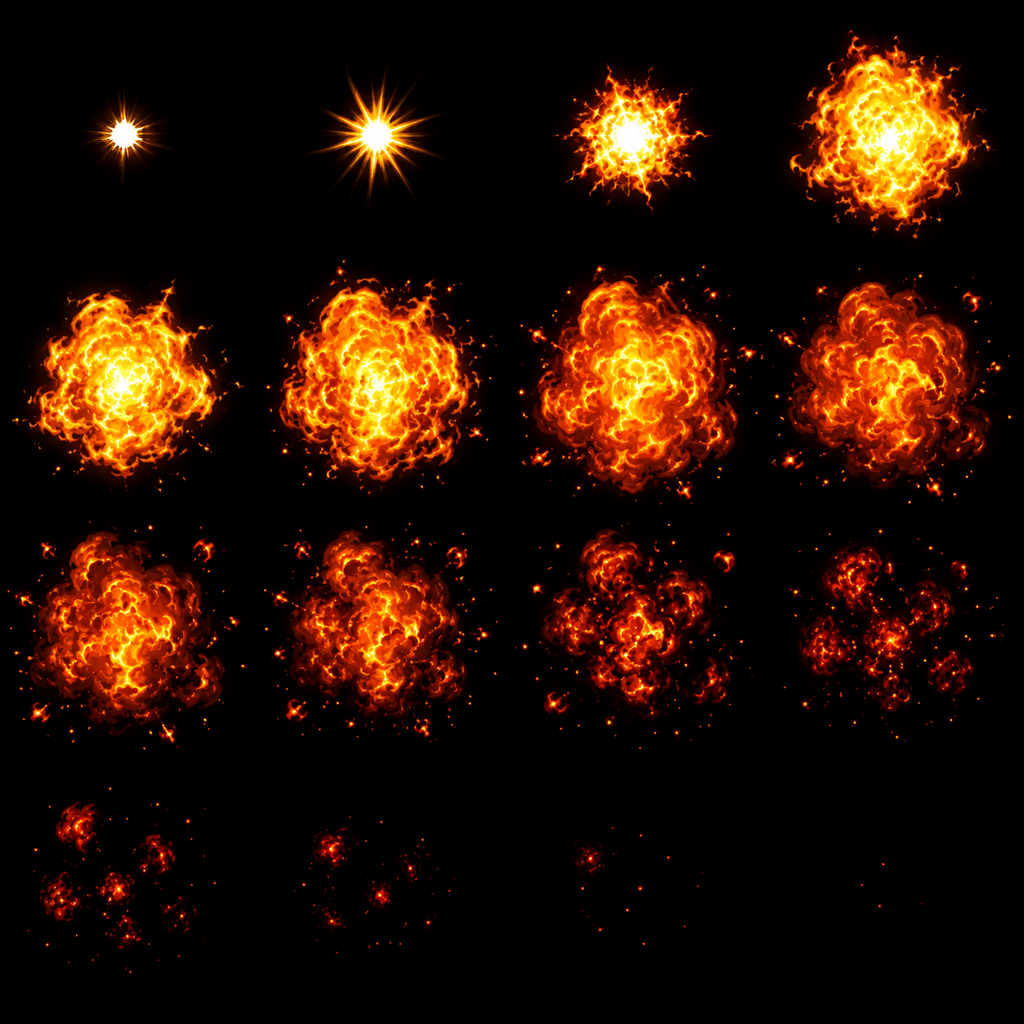
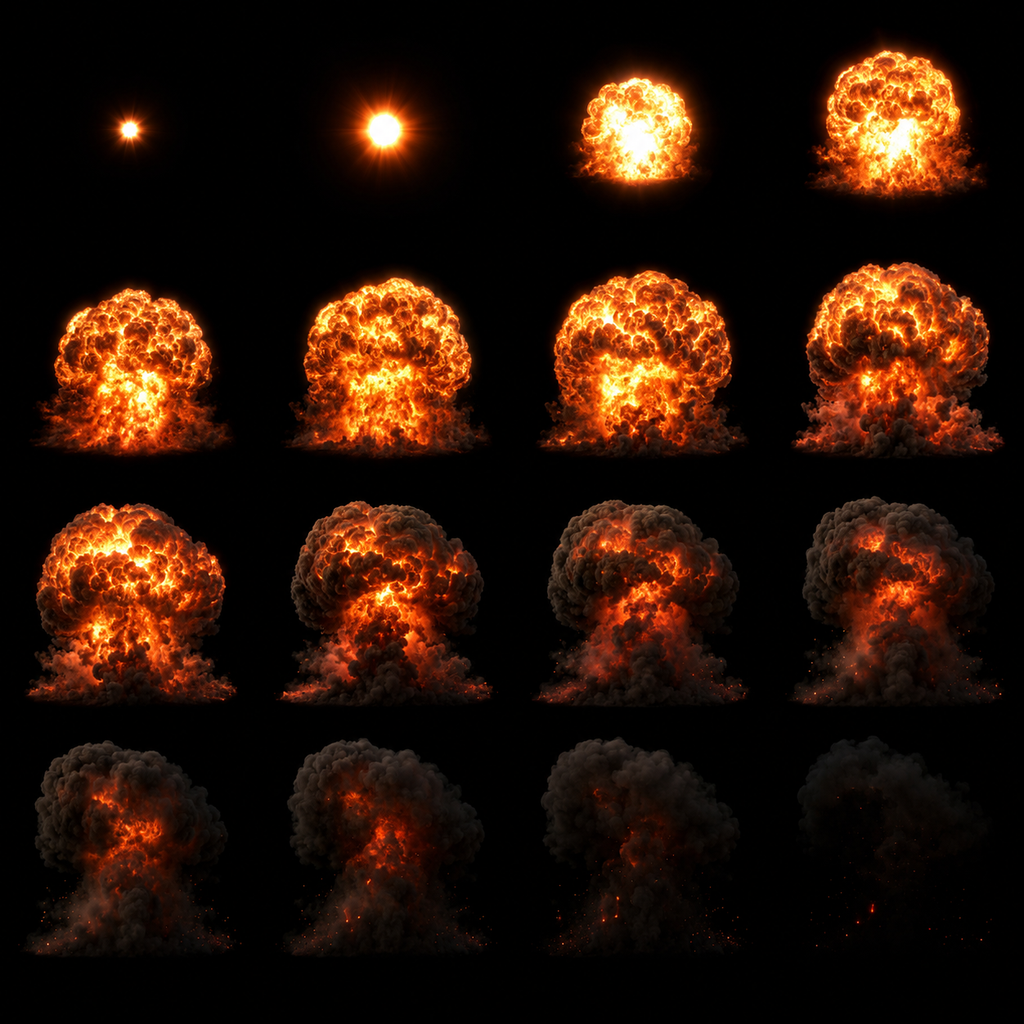
爆炸第四版=写实模拟序列帧+地面锚定;电梯载箱与压毁
- 参考31写实流体模拟质感序列帧(体积火云/蘑菇升腾/透光烟,帧内自带贴地基线);切帧改网格原样切(重定心会抹掉升腾运动);参考30手绘版转存档
- 火焰穿地根治:贴地爆=帧底边锚定地面线+冲击波环压扁成地表尘环+熏黑贴地;半空爆居中正圆
- 电梯载箱:厢底/厢顶可推物绝对落座随厢(增量平移累5-7px嵌顶,实测);载运顶进实体=压毁(气瓶=引爆);B4→B1全程零穿模
- 物理模拟技术答案入册:实时体积流体不可行于H5,行业解=离线模拟烘焙flipbook+运行时粒子

diff --git a/src/scenes/ArenaScene.js b/src/scenes/ArenaScene.js
@@ -168,23 +168,29 @@ export class ArenaScene extends Phaser.Scene {
       flash: (x, y) => this.flashEmitter.explode(1, x, y),
       // 爆炸复合体(对标入侵者2,反馈批定版):暖白核闪+环形火球羽流(3变体×双层)+撕裂冲击波
       // 双环+错峰烟团(NORMAL,火灭烟还在)+暖色火星雨+地面熏黑贴花——每发混沌不同
-      explosion: (x, y, power = 1) => {
+      explosion: (x, y, power = 1, groundY = null) => {
         const core = this.add.image(x, y, 'px_glow').setTint(0xfff6e0).setScale(0.3 * power)
           .setBlendMode(Phaser.BlendModes.ADD).setDepth(42)
         this.tweens.add({ targets: core, scale: 1.5 * power, alpha: 0, duration: 90, ease: 'Expo.Out', onComplete: () => core.destroy() })
-        // 火球=AI 手绘序列帧(参考30,16帧@30fps;程序化火球两版被点名"差劲"后定版走美术帧——
-        // 与全作 AI 切件同一质量线;黑底 ADD 混合,黑=透明免抠)。翻转/微转/缩放抖动=每发不同
-        const boom = this.add.sprite(x, y, 'fx_boom', 0)
+        // 火球=AI 写实模拟序列帧(参考31,16帧@30fps,黑底 ADD 黑即透明;帧内自带贴地升腾基线)。
+        // 贴地爆=底边锚定在地面线(蘑菇向上升,火不入地——用户点名"穿地"的根治);半空爆=居中
+        const bScale = (0.85 + Math.random() * 0.3) * power
+        const grounded = groundY != null && groundY - y < 256 * bScale * 0.5
+        const boom = this.add.sprite(x, grounded ? groundY + 6 : y, 'fx_boom', 0)
+          .setOrigin(0.5, grounded ? 0.92 : 0.6)
           .setBlendMode(Phaser.BlendModes.ADD).setDepth(41)
-          .setScale((0.85 + Math.random() * 0.3) * power)
+          .setScale(bScale)
           .setFlipX(Math.random() < 0.5)
-          .setRotation((Math.random() - 0.5) * 0.3)
         boom.play('boom')
         boom.once('animationcomplete', () => boom.destroy())
+        // 冲击波环:贴地爆=压扁成地表尘环(真实地面爆炸的水平冲击环);空中爆=正圆
         for (const R of [{ tint: 0xffffff, s1: 2.6, a: 0.85, dur: 180 }, { tint: 0xff8a3d, s1: 3.3, a: 0.6, dur: 380 }]) {
-          const rg = this.add.image(x, y, 'px_shockring').setRotation(Math.random() * Math.PI * 2)
-            .setTint(R.tint).setScale(0.15 * power).setBlendMode(Phaser.BlendModes.ADD).setDepth(40).setAlpha(R.a)
-          this.tweens.add({ targets: rg, scale: R.s1 * power, alpha: 0, duration: R.dur, ease: 'Quad.Out', onComplete: () => rg.destroy() })
+          const ry = grounded ? groundY - 6 : y
+          const rg = this.add.image(x, ry, 'px_shockring').setRotation(grounded ? 0 : Math.random() * Math.PI * 2)
+            .setTint(R.tint).setScale(0.15 * power, 0.15 * power * (grounded ? 0.3 : 1))
+            .setBlendMode(Phaser.BlendModes.ADD).setDepth(40).setAlpha(R.a)
+          this.tweens.add({ targets: rg, scaleX: R.s1 * power, scaleY: R.s1 * power * (grounded ? 0.3 : 1),
+            alpha: 0, duration: R.dur, ease: 'Quad.Out', onComplete: () => rg.destroy() })
         }
         const n = Phaser.Math.Between(3, 5)
         for (let i = 0; i < n; i++) {
@@ -201,7 +207,8 @@ export class ArenaScene extends Phaser.Scene {
         }
         this.emberEmitter.explode(Phaser.Math.Between(30, 40), x, y)
         // 地面熏黑:三张打散的深色软斑=不规则烟灰渍,FIFO 上限防贴花堆积
-        const scorch = this.add.container(x, y).setDepth(2).setScale(0.3)
+        // 熏黑贴在地面线(有地面时),半空爆不留悬空黑渍
+        const scorch = this.add.container(x, groundY != null ? groundY - 2 : y).setDepth(2).setScale(0.3)
         for (let i = 0; i < 3; i++) {
           scorch.add(this.add.image(Phaser.Math.Between(-10, 10), Phaser.Math.Between(-6, 6), 'px_glow')
             .setTint(0x0d0b09).setAlpha([0.55, 0.4, 0.3][i])

diff --git a/src/systems/Elevator.js b/src/systems/Elevator.js
@@ -221,6 +221,40 @@ export class Elevator {
           if (!pb.isStatic) M.Body.setVelocity(pb, { x: pb.velocity.x, y: ndy })
         }
       }
+      // —— 可推物随厢载运(用户实见"厢顶箱子上行时穿模"):厢底面/厢顶面上的可推刚体随厢
+      // 平移,与载尸同法——厢体是 setPosition 驱动的静态体,无碰撞响应,不带=顶穿/掉埋。
+      // 载运中将顶进非电梯实体=压毁(箱→碎屑消亡;完好气瓶→当场引爆,现实电梯的下场) ——
+      for (const pp of s._pushables) {
+        const pb2 = pp._body
+        if (!pb2 || pp === p || (pp.tank && pp._state && pp._state !== 'idle')) continue
+        if (Math.abs(pb2.position.x - cx) >= p.w / 2 + 6) continue
+        const bot = pp.y + pp.h
+        const onCabFloor = bot > p.y - 8 && bot < p.y + 10
+        const onCabRoof = bot > this.roofSolid.y - 8 && bot < this.roofSolid.y + 10
+        if (!onCabFloor && !onCabRoof) continue
+        let crushed = false
+        if (ndy < 0) {
+          const nx = pb2.position.x, ny2 = pb2.position.y + ndy
+          for (const o of s.solids) {
+            if (o.oneWay || o.elevator || o.minor || o === pp) continue
+            if (nx > o.x && nx < o.x + o.w && ny2 - pp.h / 2 < o.y + o.h && ny2 + pp.h / 2 > o.y) { crushed = true; break }
+          }
+        }
+        if (crushed) {
+          this._crushFx(pb2.position.x, pb2.position.y)
+          if (pp.tank && s.explosives) { s.explosives._explode(pp); continue }
+          if (pp._spr) pp._spr.destroy()
+          s.matter.world.remove(pb2)
+          const si = s.solids.indexOf(pp); if (si >= 0) s.solids.splice(si, 1)
+          const pi = s._pushables.indexOf(pp); if (pi >= 0) s._pushables.splice(pi, 1)
+          continue
+        }
+        M.Sleeping.set(pb2, false)
+        // 绝对落座(底边贴面)而非增量平移——增量会累出 5-7px 嵌顶漂移(实测)
+        const seatTop = (onCabFloor ? p.y : this.roofSolid.y) + ndy
+        M.Body.setPosition(pb2, { x: pb2.position.x, y: seatTop - pp.h / 2 })
+        if (!pb2.isStatic) M.Body.setVelocity(pb2, { x: pb2.velocity.x, y: ndy })
+      }
       // 下行厢底"贴到"正下方的尸块时把它挤出去(窗口只有一个厢底厚度——
       // 开大到 70 会在整个下行途中把足印下方全部尸块提前扫飞,载运就没得载了,实测踩过)
       if (ndy > 0) {

diff --git a/src/systems/Explosives.js b/src/systems/Explosives.js
@@ -52,7 +52,13 @@ export class Explosives {
     const x = t._body.position.x, y = t._body.position.y
     // 视觉:爆炸复合体(核闪/火球羽流/冲击波环/烟团/暖火星/熏黑,见 fx.explosion——
     // 旧版借用枪械冷色资源+圆片充数,用户点名"不真实,参考入侵者2"后重做)
-    s.fx.explosion(x, y, 1)
+    // 找爆点正下方最近的地面线(火球锚地/熏黑贴地/冲击波变地表尘环用;200px 内无地=半空爆)
+    let groundY = null
+    for (const o of s.solids) {
+      if (o.minor || x < o.x || x > o.x + o.w) continue
+      if (o.y >= y - 6 && o.y < y + 200 && (groundY == null || o.y < groundY)) groundY = o.y
+    }
+    s.fx.explosion(x, y, 1, groundY)
     s.fx.debris(x, y, 16)
     // 震屏随玩家距离衰减(900px 外不震——隔半张图的爆炸不该同级摇镜头)
     const fall = Math.max(0, 1 - Math.hypot(s.player.x - x, s.player.y - y) / 900)

diff --git a/docs/素材许可.md b/docs/素材许可.md
@@ -30,7 +30,8 @@
 | **可爆气瓶套图 v1(现役)** | docs/风格参考/参考27-可爆气瓶v1.png(1122×1402,浅灰底) | 用户本人 ChatGPT 账号,由 Claude 代为输入 prompt 生成(高压气瓶A锈红/B灰绿/小丙烷罐) | 用户账号生成的 AI 内容;切件坐标留档 tools/cut-devices.mjs | 无 | 切件 prop_tank_a/b/s(R2 可爆物:打漏喷焰乱窜→爆炸→连锁殉爆) | 2026-07-17 |
 | **B2实验层家具套图 v1(现役)** | docs/风格参考/参考28-B2实验层家具v1.png(1024×1536,浅灰底) | 用户本人 ChatGPT 账号,由 Claude 代为输入 prompt 生成(玻璃观察窗墙/低温冷柜墙带空格叙事/湿实验台/立式样本冷藏柜/打翻实验推车/应急冲淋站/生物废料桶) | 用户账号生成的 AI 内容;切件坐标留档 tools/cut-devices.mjs | 无 | 切件8件(bg_lab_window/bg_cryo_wall/prop_wetbench/prop_scope[显微镜独立件]/prop_cryocab/prop_labcart/prop_shower/prop_biobin):B2 房间批次二 | 2026-07-22 |
 | **B3安防层家具套图 v1(现役)** | docs/风格参考/参考29-B3安防层家具v1.png(1024×1536,浅灰底) | 同上(监控多屏墙/监控操作台/军械枪架墙/重型军械柜/大型弹药储运箱/旋转警报灯) | 用户账号生成的 AI 内容;切件坐标留档 tools/cut-devices.mjs | 无 | 切件8件(bg_monitor_wall/prop_secdesk/prop_screen_a/prop_screen_b[台面双屏独立件]/bg_gunrack/prop_armorycab/prop_ammochest/bg_alarm):B3 房间批次二 | 2026-07-22 |
-| **爆炸序列帧 v1(现役)** | docs/风格参考/参考30-爆炸序列帧v1.png(1254×1254,纯黑底) | 用户本人 ChatGPT 账号,由 Claude 代为输入 prompt 生成(4×4 网格 16 帧:白热起爆→火球翻滚→破碎暗红→余烬熄灭;程序化火球两版被用户点名后定版走手绘帧动画) | 用户账号生成的 AI 内容;切帧脚本 tools/cut-boom.mjs(逐格亮度质心重定心) | 无 | fx_boom.png spritesheet(16帧256×256,黑底 ADD 混合,游戏内 30fps 播放=煤气罐爆炸火球层) | 2026-07-23 |
+| 爆炸序列帧 v1(手绘版,已被写实版取代) | docs/风格参考/参考30-爆炸序列帧v1.png(1254×1254,纯黑底) | 用户本人 ChatGPT 账号,由 Claude 代为输入 prompt 生成(4×4 网格 16 帧:白热起爆→火球翻滚→破碎暗红→余烬熄灭;程序化火球两版被用户点名后定版走手绘帧动画) | 用户账号生成的 AI 内容;切帧脚本 tools/cut-boom.mjs(逐格亮度质心重定心) | 无 | (存档备选) | 2026-07-23 |
+| **爆炸序列帧写实版 v1(现役)** | docs/风格参考/参考31-爆炸序列帧写实v1.png(1254×1254,纯黑底) | 用户本人 ChatGPT 账号,由 Claude 代为输入 prompt 生成(写实流体模拟渲染质感:白热起爆→体积火球翻滚→蘑菇升腾火转透光烟→余烬;帧内自带贴地基线) | 用户账号生成的 AI 内容;切帧 tools/cut-boom.mjs(网格原样切,不重定心以保留升腾运动) | 无 | fx_boom.png spritesheet(16帧256×256,ADD 混合 30fps,底边锚定地面线播放) | 2026-07-23 |
 
 > AI 生成素材说明:全部由文本 prompt 生成(pollinations.ai 或用户本人 ChatGPT 账号),未使用任何现有游戏素材作为图像输入;生成来源、切件多边形坐标均在 git 历史与 tools/cut-*.mjs(player/props/devices 三脚本)中留档,作为原创性证据链。
 > 母本v2 注意事项:原图顶部含 AI 生成的"toddlerwipes"字样与红条图形(风格模仿产物),**切件多边形完全避开该区域,任何水印像素不进入游戏**;该图为风格致敬性的 AI 原创生成,非对任何现有游戏素材的拷贝。

diff --git a/docs/开发日志.md b/docs/开发日志.md
@@ -2,6 +2,13 @@
 
 > 倒序:最新的在上面。每次工作会话记一条:做了什么、验证结果、遗留问题。
 
+## 2026-07-23 · 爆炸第四版=写实模拟序列帧+地面锚定;电梯载箱
+- **用户三问:"有没有物理模拟引擎模拟爆炸/火焰穿地/电梯顶箱子上行穿模"**。
+- **物理模拟问题的技术答案(入册)**:H5+60fps+4399 包体下不可能跑实时体积流体模拟;行业做法=离线模拟渲染成序列帧(flipbook)+运行时粒子叠加,连 3A 也如此。落地=参考31"写实流体模拟渲染质感"序列帧(体积火云翻滚/蘑菇升腾/火转透光烟,帧内自带贴地基线),ADD 混合下暗烟自然透明。**切帧不重定心**(重定心会抹掉帧序列内建的升腾运动,与参考30 手绘版相反)——cut-boom 改网格原样切;参考30 转存档备选。
+- **火焰穿地根治**:_explode 找爆点正下方地面线传入 fx.explosion——贴地爆=序列帧底边锚定地面(origin 0.5,0.92,蘑菇向上)、冲击波环压扁成地表尘环(scaleY 0.3,真实地面爆的水平冲击环)、熏黑贴地面线;半空爆(飞行瓶)保持居中正圆。冻帧验收:火球坐在走道面上,地下零像素。
+- **电梯载箱**:可推物没有随厢载运逻辑(只有玩家/尸体有)——厢顶箱子上行时被静态厢体 setPosition 顶穿。修=厢底/厢顶面上的可推刚体绝对落座随厢(增量平移会累出 5-7px 嵌顶,实测改绝对落座 2.5px);载运中将顶进非电梯实体=压毁(碎屑消亡;完好气瓶=当场引爆)。实测:弹药箱 B4→B1 全程骑行零穿模(压毁分支在现有几何触发不到,留作安全网——顶停净空 61px>箱高,原"17px"按站立玩家头算)。
+- 素材台账:参考30 转备选,参考31 现役。观感待用户拍板。
+
 ## 2026-07-23 · 爆炸第三版=AI 手绘序列帧(点名第二次,按哲学停下对齐后用户拍板)
 - **用户二次点名"爆炸效果仍很差劲"=方向级错误,停止参数调整,对齐后拍板走 AI 序列帧**。诊断:两版程序化失败的根因是路线错——①程序化画布渐变的质量上限追不上全作 AI 切件美术;②真实爆炸靠"形状随时间演变",单贴图缩放淡出=图章放大;③我的验收一直用冻帧没看动态(且被 sleep/wake 时钟污染误导)。入侵者2 的爆炸也是预绘制位图。
 - **落地**:参考30 爆炸序列帧套图(纯黑底 4×4 网格 16 帧:白热星芒起爆→火球翻滚→破碎暗红→余烬熄灭)→ tools/cut-boom.mjs 逐格亮度质心重定心归一化为 fx_boom.png spritesheet(16×256²)→ 游戏内 30fps 帧动画+ADD 混合(黑=透明免抠)+翻转/微转/缩放抖动=每发不同;保留冲击波环/暖火星/引擎烟层(NORMAL)/熏黑/震屏/四层音效。程序化火球层(px_fireball)退役。
